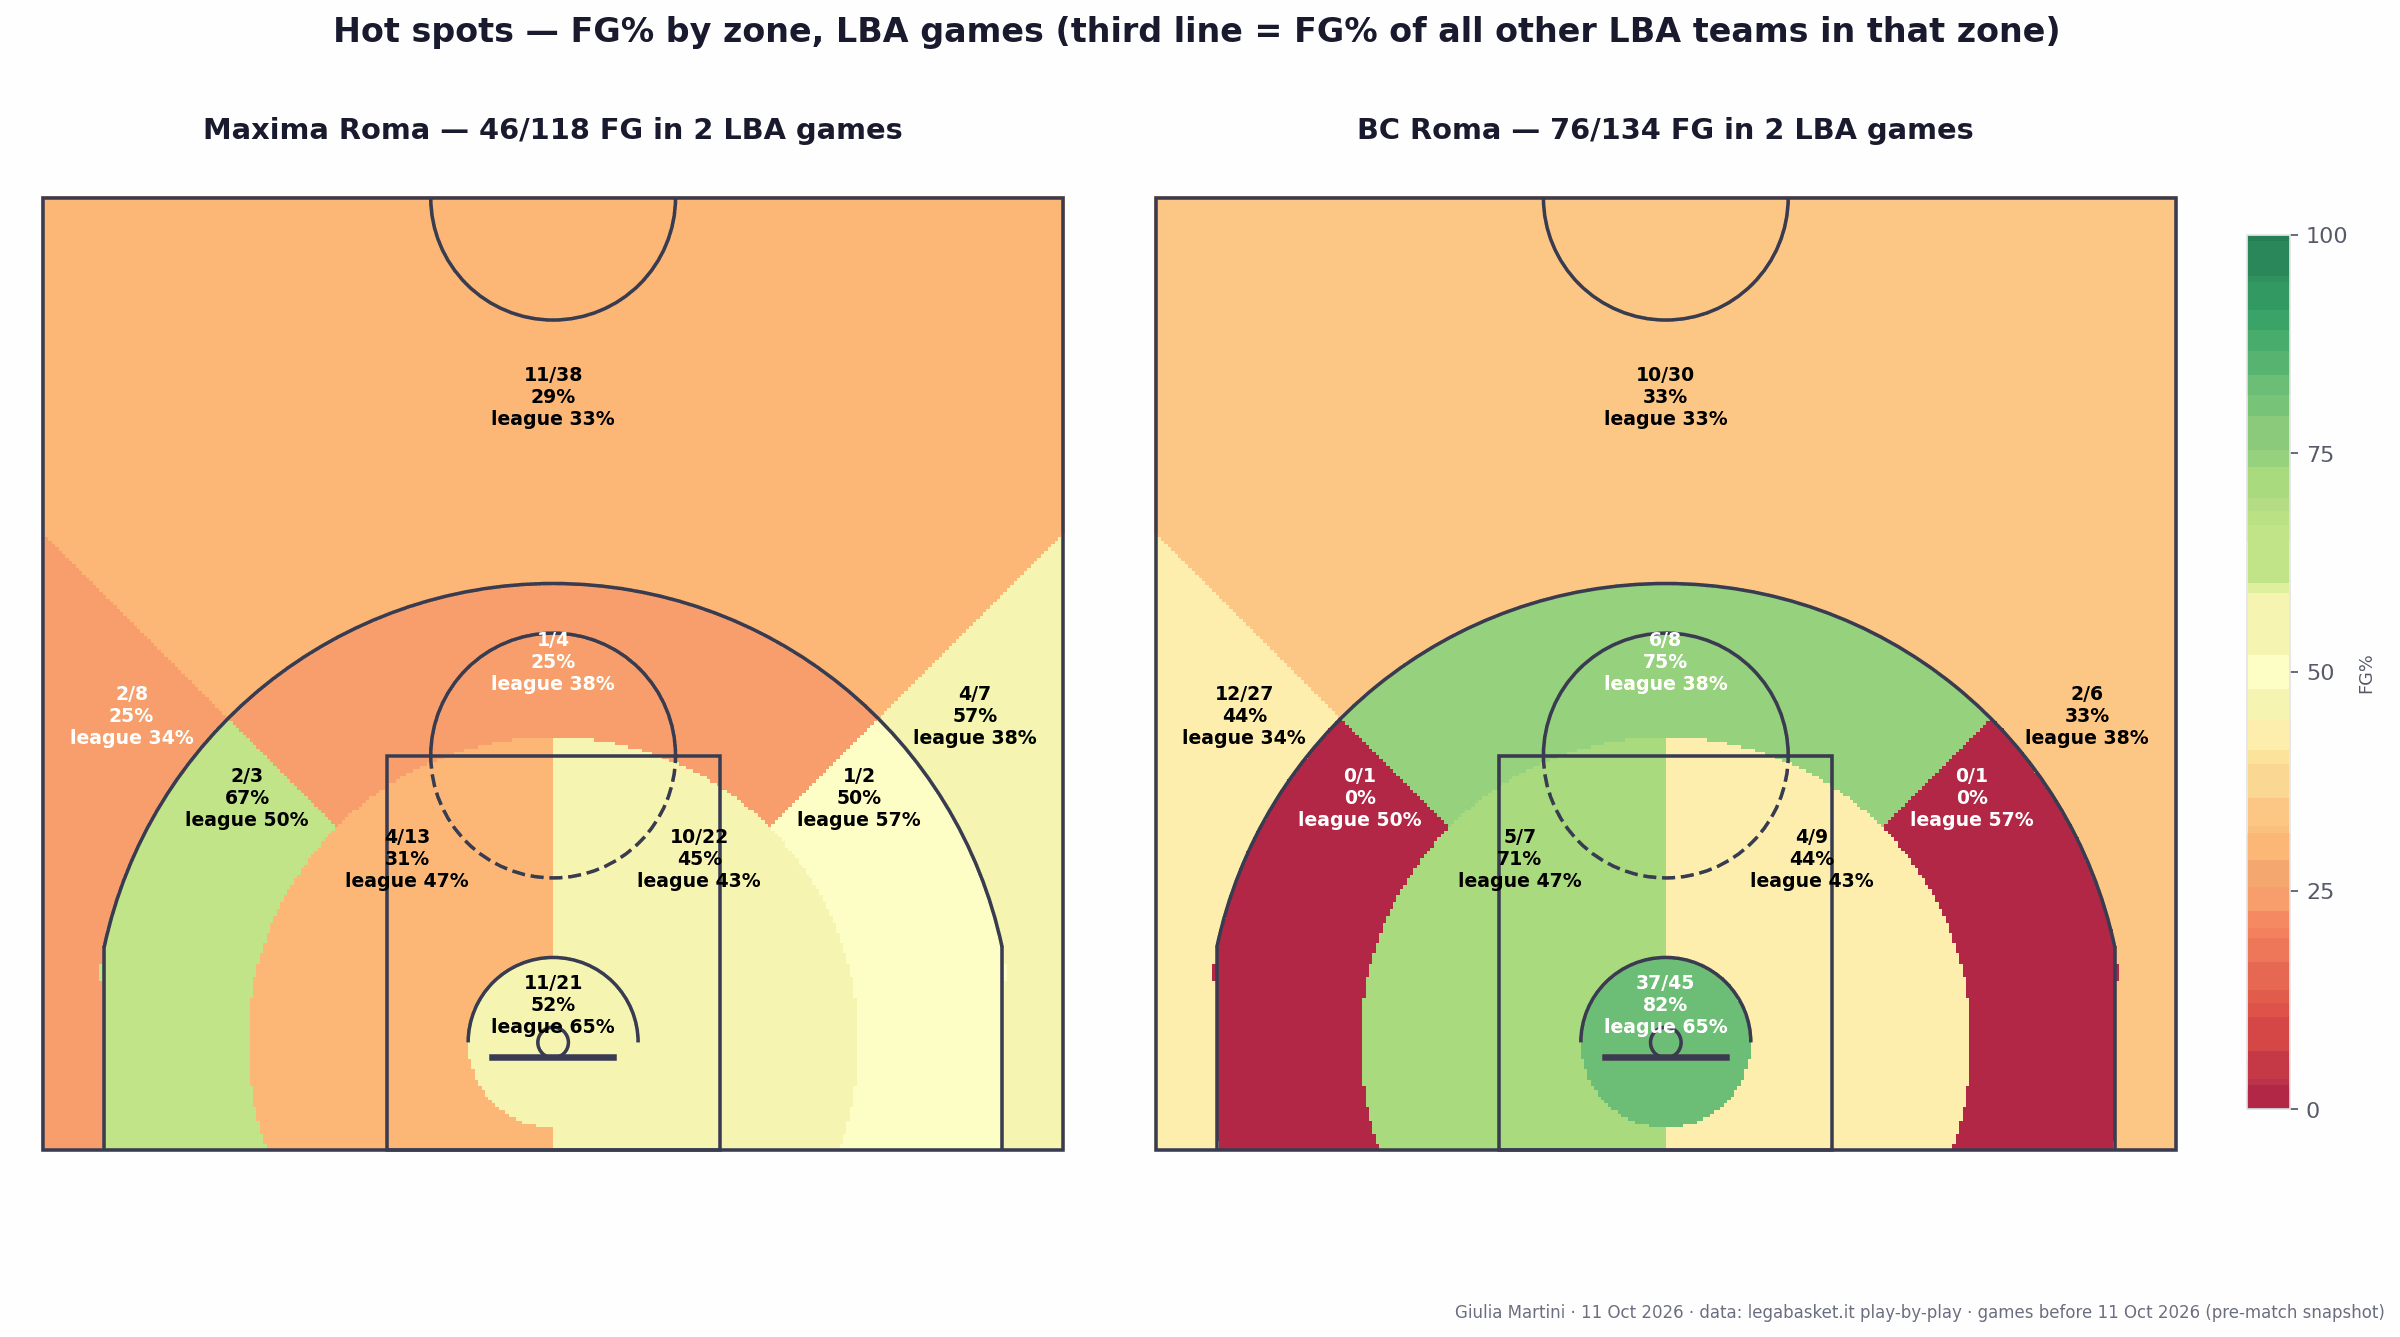
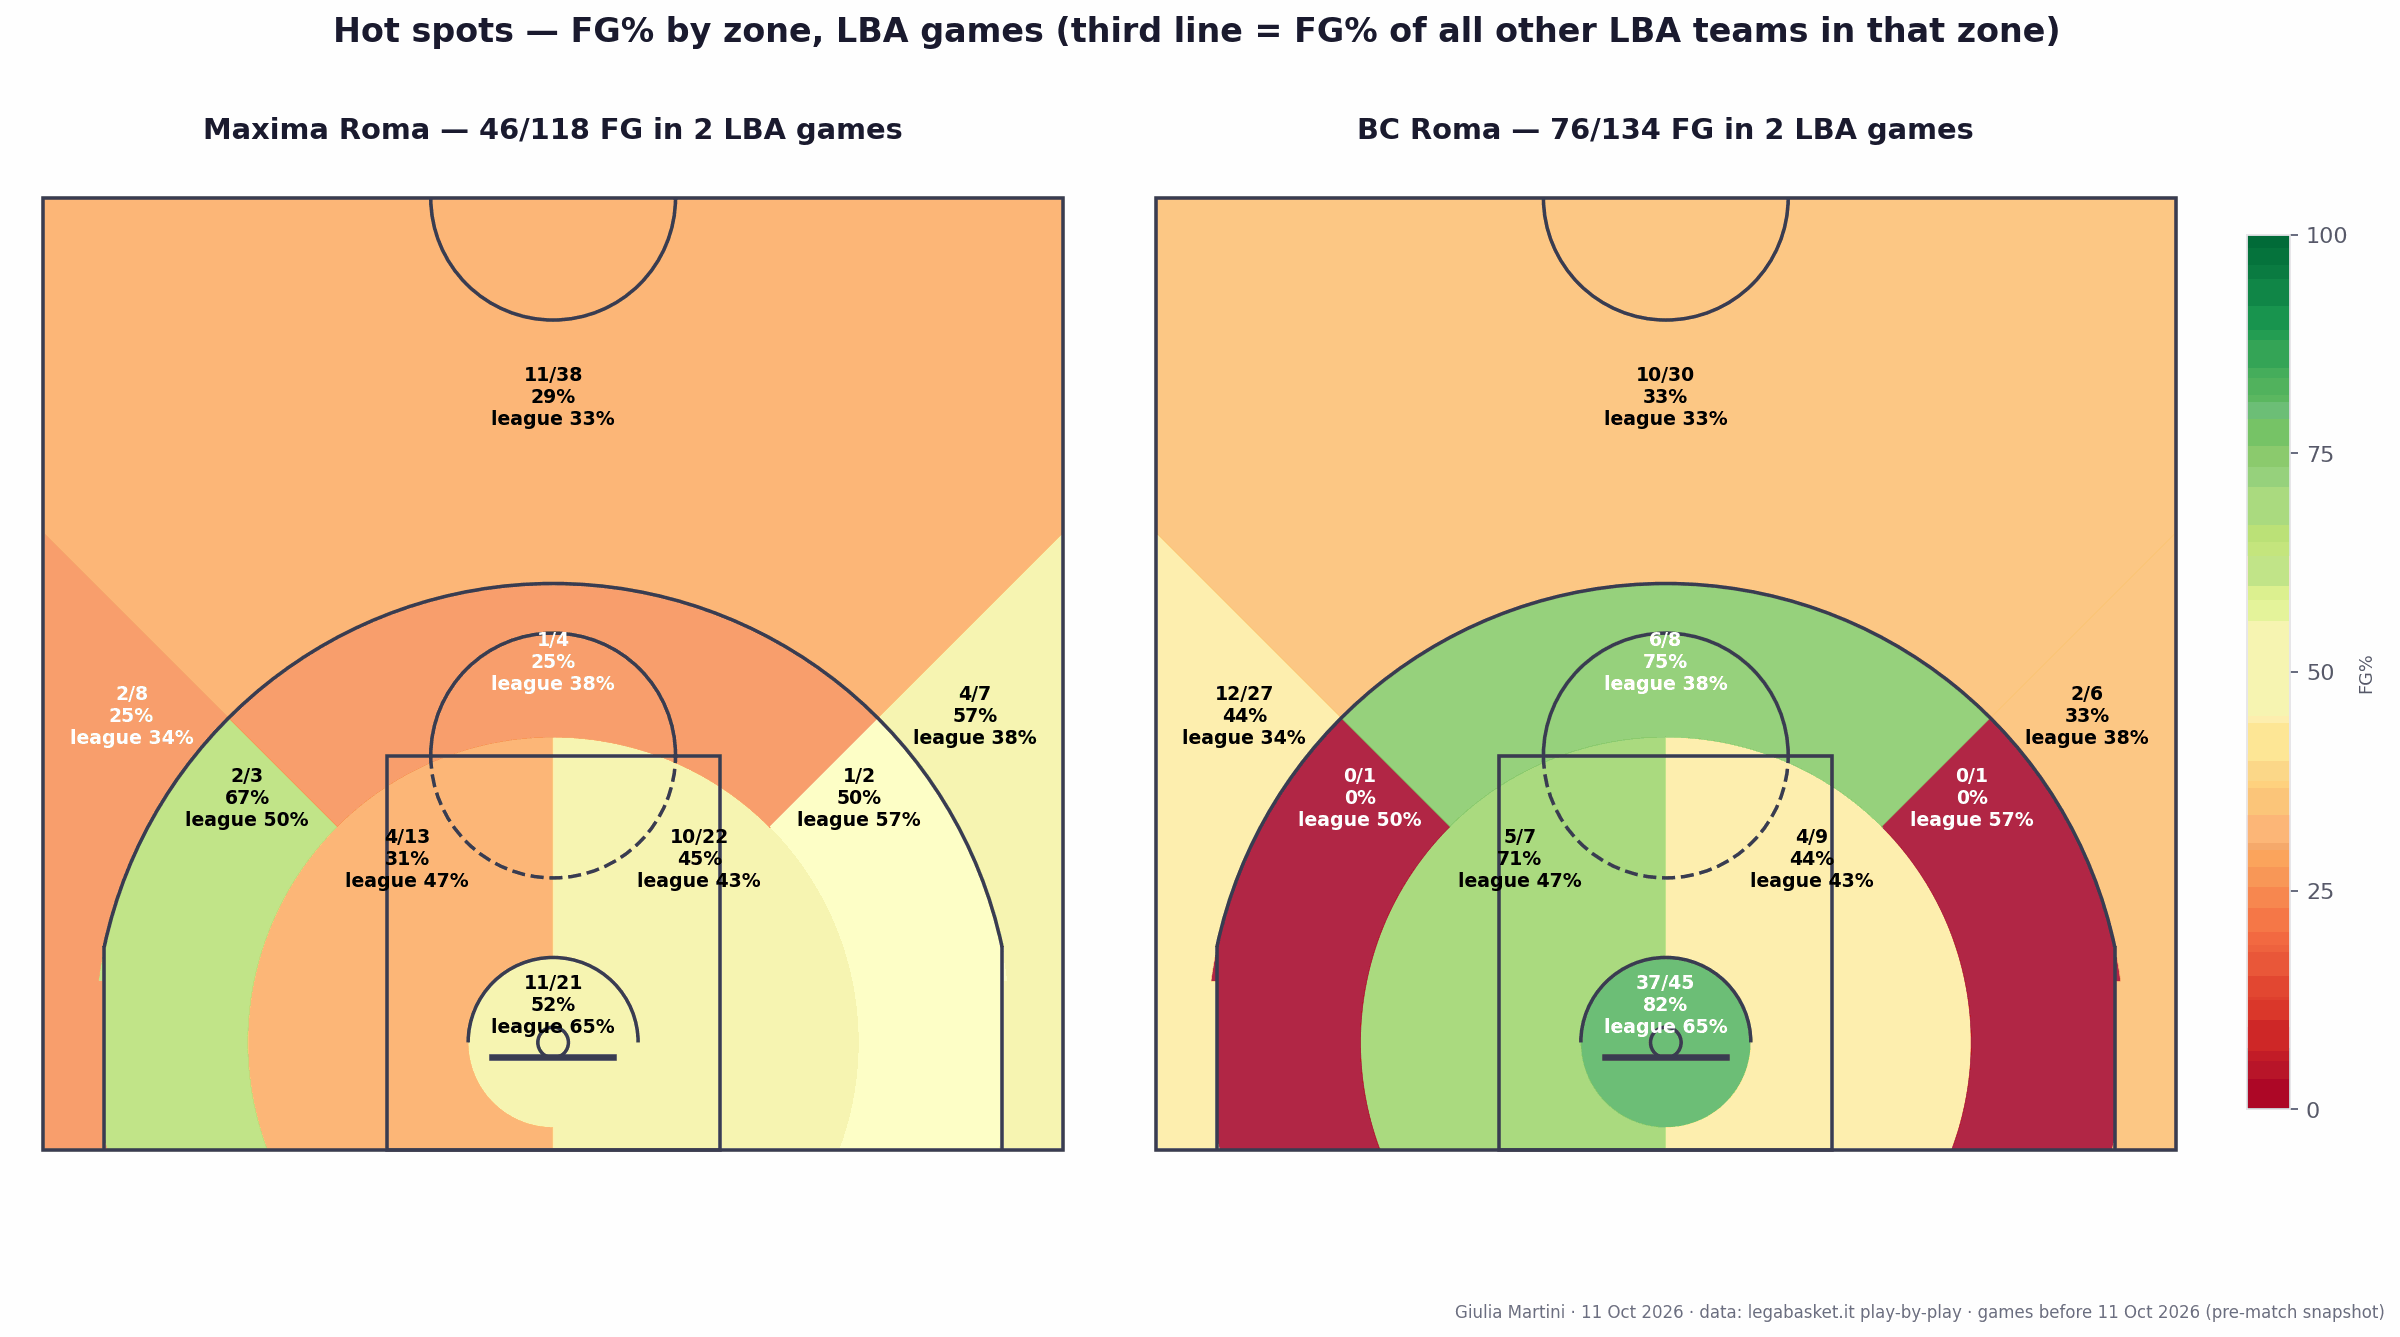
Zone heatmaps as smooth vector polygons (shapely) instead of pixel grid
Claude-Session: https://claude.ai/code/session_01XZX7qMFx4zZdpAJp8iP8yK

Changed region(s): [[0.9375, 0.5213, 0.9688, 0.828], [0.9375, 0.1533, 0.9688, 0.3067], [0.9375, 0.4293, 0.9688, 0.46]]

diff --git a/notebooks/lba_style.py b/notebooks/lba_style.py
@@ -133,3 +133,52 @@ _FALLBACK = [(BLUE, "#2f5f99"), (ORANGE, "#b46a3a"), (GREEN, "#1f6e3f")]
 def team_color(team: str, idx: int = 0) -> tuple[str, str]:
     """(fill, edge) for a team; unknown teams cycle through blue/orange/green by idx."""
     return TEAM_COLORS.get(team, _FALLBACK[idx % len(_FALLBACK)])
+
+
+# ── zone polygons (vector, smooth edges) ────────────────────────────────────────
+def zone_polygons() -> dict:
+    """The nine A–I zones as shapely polygons in the court frame (cm), mirroring assign_zone_arr exactly.
+
+    Used to draw zone heatmaps as filled vector patches instead of a pixel grid.
+    """
+    from shapely.geometry import Point, Polygon, box
+    from shapely.ops import unary_union
+
+    court = box(-750, -157.5, 750, 1242.5)
+    circ = lambda r: Point(0, 0).buffer(r, resolution=256)
+    strips = unary_union([box(-750, -157.5, -CORNER_X, CORNER_Y), box(CORNER_X, -157.5, 750, CORNER_Y)])
+    inside3 = circ(THREE_PT_RADIUS).difference(strips).intersection(court)
+    three = court.difference(inside3)
+    a = circ(RESTRICTED_R).intersection(court)
+    short = circ(SHORT_RANGE_MAX).difference(circ(RESTRICTED_R)).intersection(court)
+    mid = inside3.difference(circ(SHORT_RANGE_MAX))
+    big = 5000
+    left_sector = Polygon([(0, 0), (-big, big), (-big, -big), (big, -big)])    # x < -y
+    right_sector = Polygon([(0, 0), (big, big), (big, -big), (-big, -big)])    # x > y
+    left_half, right_half = box(-big, -big, 0, big), box(0, -big, big, big)
+    zones = {
+        "A": a,
+        "B": short.intersection(left_half), "C": short.intersection(right_half),
+        "D": mid.intersection(left_sector), "F": mid.intersection(right_sector),
+        "G": three.intersection(left_sector), "I": three.intersection(right_sector),
+    }
+    zones["E"] = mid.difference(zones["D"]).difference(zones["F"])
+    zones["H"] = three.difference(zones["G"]).difference(zones["I"])
+    return zones
+
+
+def draw_zone_fill(ax, pct_by_zone: dict, cmap, vmin=0, vmax=100, alpha=0.85, empty="#e6e6ee", zorder=1):
+    """Fill the nine zones with cmap(pct) as smooth vector patches; zones missing from pct_by_zone get `empty`."""
+    from matplotlib.colors import Normalize
+    from matplotlib.patches import PathPatch
+    from matplotlib.path import Path as MPath
+    norm = Normalize(vmin, vmax)
+    for z, geom in zone_polygons().items():
+        geoms = geom.geoms if hasattr(geom, "geoms") else [geom]
+        color = cmap(norm(pct_by_zone[z])) if z in pct_by_zone else empty
+        for g in geoms:
+            verts, codes = [], []
+            for ring in [g.exterior, *g.interiors]:
+                pts = list(ring.coords)
+                verts += pts; codes += [MPath.MOVETO] + [MPath.LINETO] * (len(pts) - 2) + [MPath.CLOSEPOLY]
+            ax.add_patch(PathPatch(MPath(verts, codes), facecolor=color, edgecolor=color, linewidth=0.3, alpha=alpha, zorder=zorder))

diff --git a/notebooks/team_report.py b/notebooks/team_report.py
@@ -15,7 +15,7 @@ import matplotlib.pyplot as plt
 import numpy as np
 import pandas as pd
 
-from lba_style import (save_fig, BLUE, DPI, GOLD, GOLD_EDGE, GREEN, LEAGUE, ORANGE, RED, SUP_KW, TEXT, TEXT2, TITLE_KW,
+from lba_style import (save_fig, draw_zone_fill, BLUE, DPI, GOLD, GOLD_EDGE, GREEN, LEAGUE, ORANGE, RED, SUP_KW, TEXT, TEXT2, TITLE_KW,
                        ZONE_LABEL_POS as _ZONE_LABEL_POS, ZONE_LABELS, assign_zone_arr, draw_half_court, mins,
                        shots_cm, style_axes, team_bar_kw)
 
@@ -61,14 +61,9 @@ def zone_stats(s: pd.DataFrame) -> dict[str, tuple[int, int, float]]:
 
 def plot_zone_heatmap(ax, s, title, ref: dict | None = None, colorbar=True, fontsize=8.5):
     st = zone_stats(s)
-    xs, ys = np.linspace(-750, 750, 300), np.linspace(-157.5, 1242.5, 280)
-    XX, YY = np.meshgrid(xs, ys)
-    zg = assign_zone_arr(XX, YY)
-    pct = np.full(zg.shape, np.nan)
-    for z, (_, _, p) in st.items():
-        pct[zg == z] = p
-    cmap = plt.cm.RdYlGn.copy(); cmap.set_bad("#e6e6ee")
-    mesh = ax.pcolormesh(XX, YY, pct, cmap=cmap, vmin=0, vmax=100, alpha=0.85, shading="auto", zorder=1)
+    cmap = plt.cm.RdYlGn.copy()
+    draw_zone_fill(ax, {z: p for z, (_, _, p) in st.items()}, cmap)
+    mesh = plt.cm.ScalarMappable(cmap=cmap, norm=plt.Normalize(0, 100)); mesh.set_array([])
     draw_half_court(ax, color="#3a3d52", lw=1.6)
     for z, (cx, cy) in _ZONE_LABEL_POS.items():
         mk, att, p = st.get(z, (0, 0, 0.0))

diff --git a/notebooks/matchup_report.py b/notebooks/matchup_report.py
@@ -27,7 +27,7 @@ import matplotlib.pyplot as plt
 import numpy as np
 import pandas as pd
 
-from lba_style import (save_fig, BLUE, DPI, GREEN, LEAGUE, RED, SUP_KW, TEXT, TEXT2, TITLE_KW, ZONE_LABEL_POS, ZONE_LABELS,
+from lba_style import (save_fig, draw_zone_fill, BLUE, DPI, GREEN, LEAGUE, RED, SUP_KW, TEXT, TEXT2, TITLE_KW, ZONE_LABEL_POS, ZONE_LABELS,
                        assign_zone_arr, draw_half_court, mins, shots_cm, style_axes, team_color)
 
 PAINT_CM = 450
@@ -284,13 +284,9 @@ def zone_stats(s):
 
 def plot_zone_heatmap(ax, s, title, ref=None):
     st = zone_stats(s)
-    xs, ys = np.linspace(-750, 750, 300), np.linspace(-157.5, 1242.5, 280)
-    XX, YY = np.meshgrid(xs, ys); zg = assign_zone_arr(XX, YY)
-    pct = np.full(zg.shape, np.nan)
-    for z, (_, _, p) in st.items():
-        pct[zg == z] = p
-    cmap = plt.cm.RdYlGn.copy(); cmap.set_bad("#e6e6ee")
-    mesh = ax.pcolormesh(XX, YY, pct, cmap=cmap, vmin=0, vmax=100, alpha=0.85, shading="auto", zorder=1)
+    cmap = plt.cm.RdYlGn.copy()
+    draw_zone_fill(ax, {z: p for z, (_, _, p) in st.items()}, cmap)
+    mesh = plt.cm.ScalarMappable(cmap=cmap, norm=plt.Normalize(0, 100)); mesh.set_array([])
     draw_half_court(ax, color="#3a3d52", lw=1.6)
     for z, (cx, cy) in ZONE_LABEL_POS.items():
         mk, att, p = st.get(z, (0, 0, 0.0))
